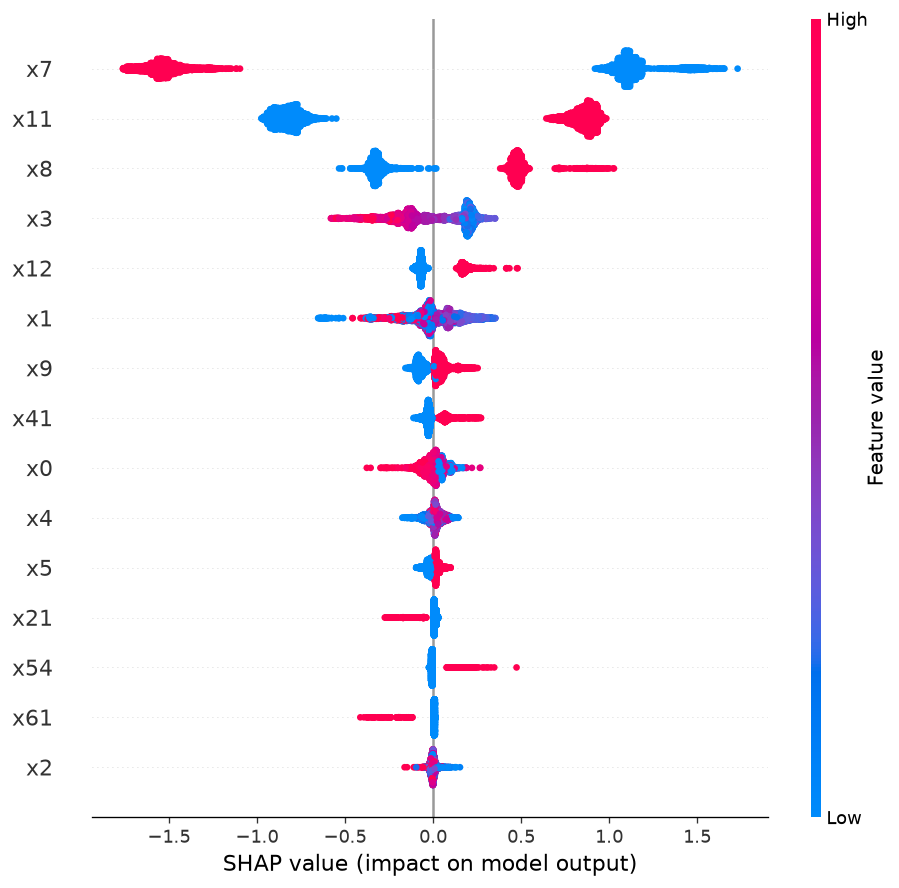
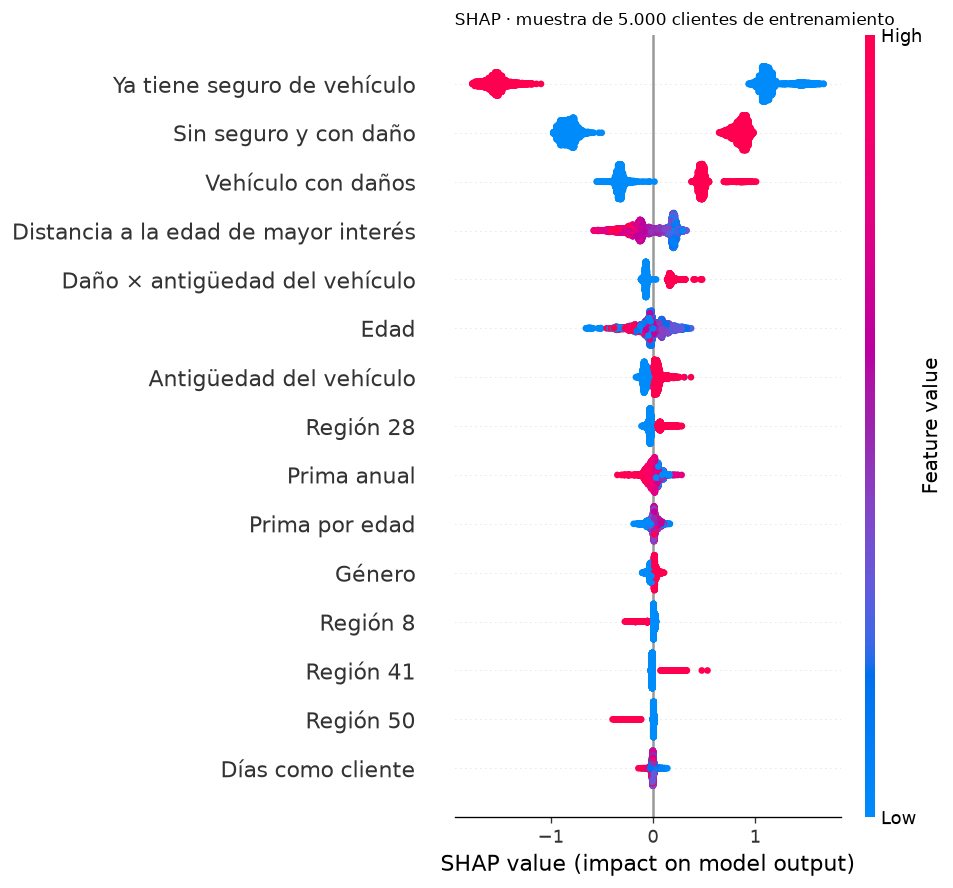
Regenera la imagen SHAP con nombres legibles, sin volver a abrir la prueba
- scripts/regenerar_shap.py calcula SHAP con el modelo final y 5.000 clientes de entrenamiento.
- El orden y los valores coinciden con 07_shap_nombres.csv (calculado con la prueba).
- reports/07_validacion.md deja constancia.

diff --git a/scripts/regenerar_shap.py b/scripts/regenerar_shap.py
@@ -1,0 +1,66 @@
+"""Regenera reports/07_shap.png con nombres de variable legibles, SIN abrir la prueba cerrada.
+
+El cuaderno 07 dibujó la imagen con nombres genéricos (x7, x11...). Aquí se vuelve a calcular SHAP con el modelo final guardado
+(models/final_pipeline.joblib) y una muestra de 5.000 clientes del ENTRENAMIENTO (semilla 42), y se nombran las columnas.
+La prueba no se vuelve a leer. Uso, desde la raíz del repositorio:  python scripts/regenerar_shap.py
+"""
+import sys
+from pathlib import Path
+
+ROOT = Path(__file__).resolve().parents[1]
+sys.path.insert(0, str(ROOT / "src"))
+
+import joblib
+import matplotlib
+
+matplotlib.use("Agg")
+import matplotlib.pyplot as plt
+import numpy as np
+import pandas as pd
+import shap
+
+TARGET, ID_COL = "Response", "id"
+NOMBRES = {
+    "Previously_Insured": "Ya tiene seguro de vehículo", "Vehicle_Damage": "Vehículo con daños",
+    "uninsured_with_damage": "Sin seguro y con daño", "age_peak_distance": "Distancia a la edad de mayor interés",
+    "damage_x_vehicle_age": "Daño × antigüedad del vehículo", "Age": "Edad", "Vehicle_Age": "Antigüedad del vehículo",
+    "Annual_Premium": "Prima anual", "premium_per_age": "Prima por edad", "is_young_customer": "Cliente joven",
+    "Vintage": "Días como cliente", "Gender": "Género", "Driving_License": "Licencia de conducir", "is_min_premium": "Prima mínima",
+}
+
+
+def legible(columna: str) -> str:
+    """'flags__Previously_Insured' -> 'Ya tiene seguro de vehículo'; 'cat__Region_Code_28' -> 'Región 28'."""
+    nombre = columna.split("__", 1)[-1]
+    if nombre.startswith("Region_Code_"):
+        return "Región " + nombre.removeprefix("Region_Code_")
+    if nombre.startswith("Gender_"):
+        return "Género: " + {"Male": "hombre", "Female": "mujer", "0": "mujer", "1": "hombre"}.get(nombre.removeprefix("Gender_"), nombre.removeprefix("Gender_"))
+    return NOMBRES.get(nombre, nombre)
+
+
+def main() -> None:
+    modelo = joblib.load(ROOT / "models" / "final_pipeline.joblib")
+    train = pd.read_parquet(ROOT / "data" / "processed" / "train.parquet")
+    X = train.drop(columns=[c for c in (TARGET, ID_COL) if c in train.columns])
+    muestra = X.sample(n=min(5000, len(X)), random_state=42)
+
+    lgbm, transformador = modelo.named_steps["model"], modelo[:-1]
+    Z = transformador.transform(muestra)
+    columnas = [legible(c) for c in modelo.named_steps["prep"].get_feature_names_out()]   # los nombres viven en el ColumnTransformer 'prep'
+    Z = pd.DataFrame(np.asarray(Z, dtype=float), columns=columnas)
+
+    valores = shap.TreeExplainer(lgbm).shap_values(Z)
+    valores = valores[1] if isinstance(valores, list) else valores
+    importancia = pd.Series(np.abs(valores).mean(axis=0), index=columnas).sort_values(ascending=False)
+
+    shap.summary_plot(valores, Z, show=False, max_display=15)
+    plt.title("SHAP · muestra de 5.000 clientes de entrenamiento", fontsize=10, loc="left")
+    plt.tight_layout()
+    plt.savefig(ROOT / "reports" / "07_shap.png", dpi=120, bbox_inches="tight")
+    print("guardado reports/07_shap.png")
+    print(importancia.head(10).round(3).to_string())
+
+
+if __name__ == "__main__":
+    main()

diff --git a/reports/07_validacion.md b/reports/07_validacion.md
@@ -165,7 +165,7 @@ Observaciones menores, que se aceptan como límites:
    "no calibrar", no tiene efecto práctico.
 2. **Las marcas de tiempo las escribe el propio notebook**, y el commit `e94c0cb` de la marca no contiene el código de esta etapa.
    **Corregido:** el código, la marca y `07_decisiones_congeladas.json` quedaron en el commit `cdda173` (rama `005-validacion`).
-3. **Los nombres de SHAP salieron genéricos**; ya están traducidos en `07_shap_nombres.csv` (sección 5).
+3. **Los nombres de SHAP salieron genéricos**; ya están traducidos en `07_shap_nombres.csv` (sección 5). **Actualización 2026-11-06:** `reports/07_shap.png` se regeneró con nombres legibles con `scripts/regenerar_shap.py`, usando una muestra de 5.000 clientes del **entrenamiento** (la prueba no se volvió a abrir). El orden y los valores coinciden con los de la prueba de `07_shap_nombres.csv` (por ejemplo, 1,319 frente a 1,318 en «Ya tiene seguro de vehículo»).
 4. **Hay perfiles idénticos con distinto `id` a ambos lados de la partición.** Son clientes distintos, no fuga estricta, y son pocos
    (269 filas repetidas en el EDA, 649 sin el canal). Pueden hacer las métricas apenas optimistas.
 
